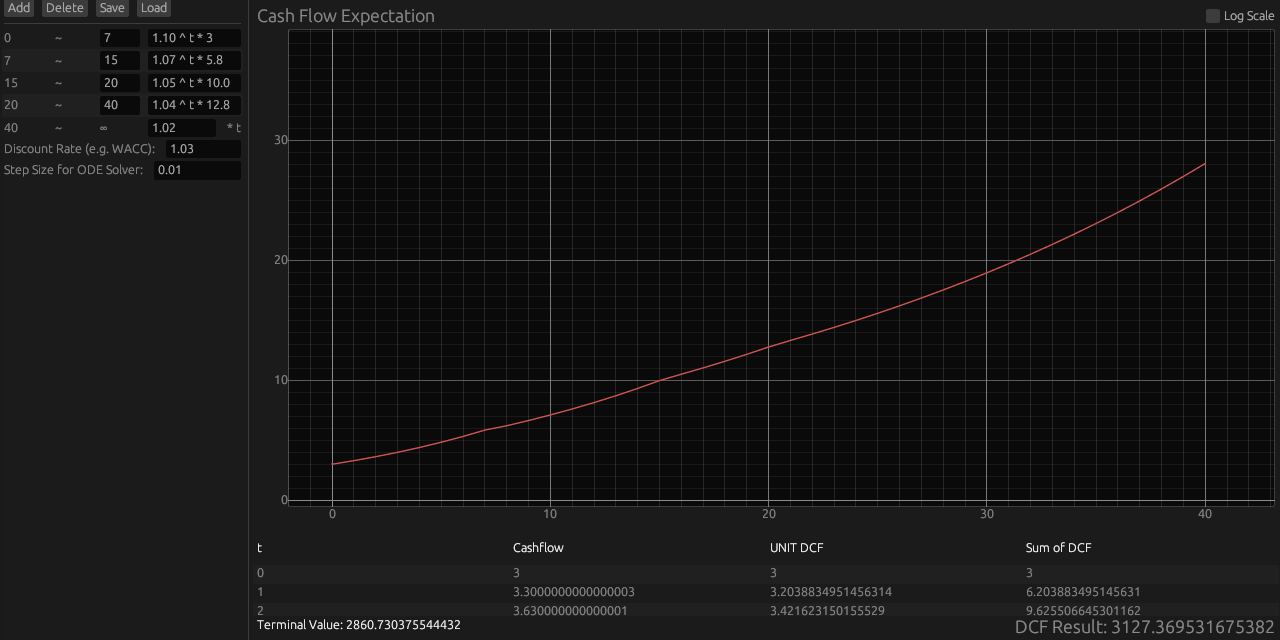
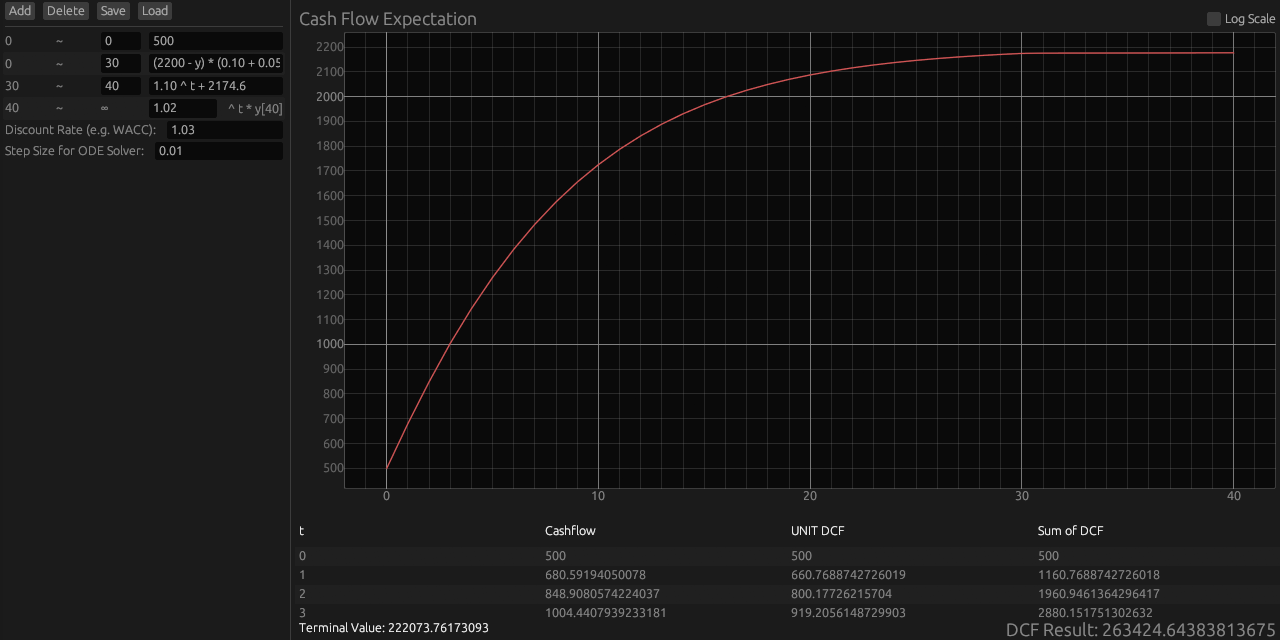
Fixed the error on y[0] point, and some examples

diff --git a/src/lib.rs b/src/lib.rs
@@ -171,7 +171,7 @@ impl AppState {
 
         for e in self.state.rows.iter() {
             let period = e.end.parse::<usize>().unwrap_or(0);
-            if period <= prev_period {
+            if period < prev_period {
                 return None;
             }
 
@@ -443,7 +443,7 @@ impl eframe::App for AppState {
                             let mut dot_counter: usize = 0;
                             self.state.growth.retain(|c| retain_float(c, &mut dot_counter));
                         }
-                        ui.add(egui::Label::new(" * t"));
+                        ui.add(egui::Label::new(format!(" ^ t * y[{prev_start}]")));
                     });
 
                 });

diff --git a/README.md b/README.md
@@ -20,7 +20,7 @@ All results are plotted in real time and listed in a scrollable table.
 | Category | Description |
 |----------|-------------|
 | Multi-model input | Per-period expression can be **constant**, **t-based function** or **ODE in y**. |
-| Live visualisation | Cash-flows rendered as a line plot (`egui_plot`) and tabulated (`egui_extras`). |
+| Live visualisation | Cash-flows rendered as a line plot (`egui_plot`) and tabulated (`egui_extras`), which also supports log-scale view. |
 | Instant re-compute | Only when user input changes — keeps CPU usage low. |
 | Native + WASM | Single code base; `cargo run --release` for desktop, `trunk serve` for browser. |
 | Persistence | Save / load scenario to JSON via `rfd` (native) or `rfd::AsyncFileDialog` (web). |
@@ -32,11 +32,11 @@ All results are plotted in real time and listed in a scrollable table.
 
 | Type | Example | Notes |
 |------|---------|-------|
-| Constant | `5000` | Same cash-flow each step. |
-| Time function | `1000 * t` | `t` is **period index** starting at 1. |
-| ODE (first-order) | `0.05 * y` | `y` is previous cash-flow; only linear ODEs supported. |
+| Constant | `500` | Same cash-flow each step. |
+| Time function | `1.10 ^ t` | `t` is **period index** starting at 0. |
+| ODE (first-order) | `(2200 - y) * (0.10 + 0.05 * y / 2200)` | `y` is previous cash-flow; only linear ODEs supported. |
 
-> ⚠ **Only two symbols are recognised:** `t` and `y`.  
+> ⚠ **Only two symbols are recognised:** `t` and `y`.
 > Any other variable name will make the segment evaluate to 0.
 
 > ℹ **Note**  
@@ -74,7 +74,7 @@ A `<canvas id="egui_canvas">` is created automatically by Trunk.
 
 1. Left panel → `Add` to append a segment row.  
 2. For each row fill **End** (last period of the segment) and **Expression**.  
-3. Final infinite segment: type *growth factor* (e.g. `1.02`) → internally used as `growth * t`.  
+3. Final infinite segment: type *growth factor* (e.g. `1.02`) → internally used as `growth ^ t`.  
 4. Set **Discount Rate** (e.g. `1.08`) and **ODE step size** if ODEs are present.  
 5. Center panel shows plot, table, terminal value and total DCF.  
 6. `Save` / `Load` buttons (or `S` / `L`) persist / restore the entire state.
